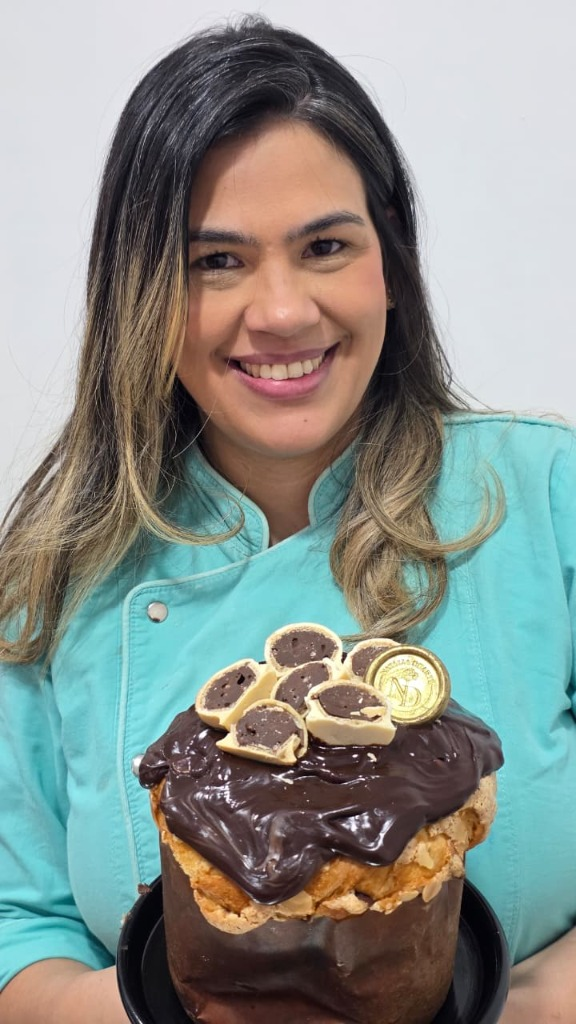
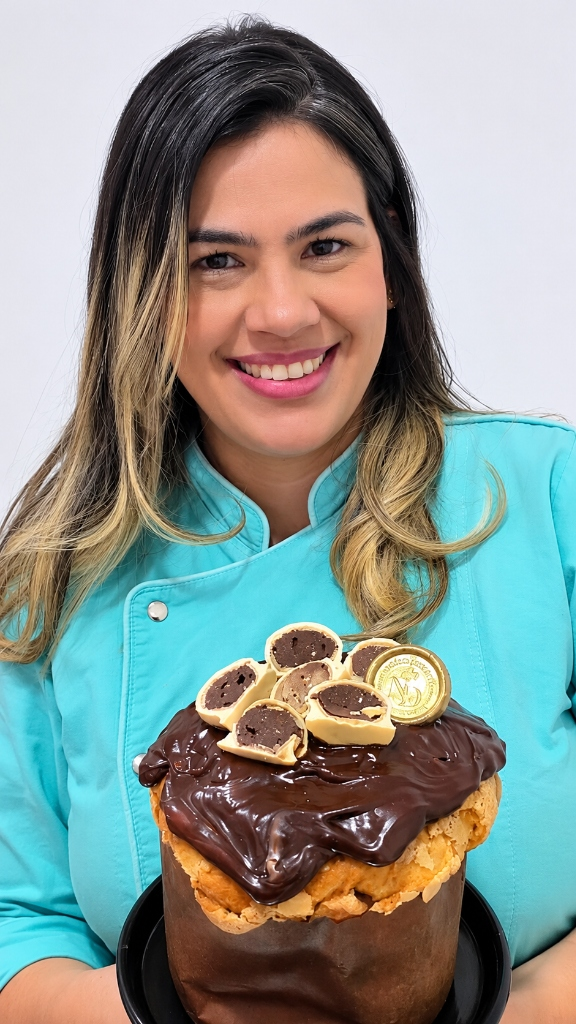
feat: replace chocotone image with high resolution original photo

diff --git a/index.html b/index.html
@@ -568,7 +568,7 @@
         <!-- Imagem Real da Nati com o Chocotone (5 Colunas) -->
         <div class="md:col-span-5 flex justify-center">
           <div class="w-full max-w-[280px] sm:max-w-[320px] aspect-[9/16] rounded-2xl overflow-hidden border-2 border-[#D4AF37]/60 shadow-2xl relative bg-black/50 group">
-            <img src="nati-chocotone.jpg" alt="Natália Duarte com Chocotone Gourmet Artesanal" class="w-full h-full object-cover object-center group-hover:scale-105 transition-transform duration-500">
+            <img src="nati-chocotone-hd.jpg" alt="Natália Duarte com Chocotone Gourmet Artesanal" class="w-full h-full object-cover object-center group-hover:scale-105 transition-transform duration-500">
             <div class="absolute top-3 left-3 bg-[#E5828D] text-white text-[10px] font-extrabold uppercase px-2.5 py-1 rounded-full tracking-wider shadow">
               BÔNUS ESPECIAL
             </div>
